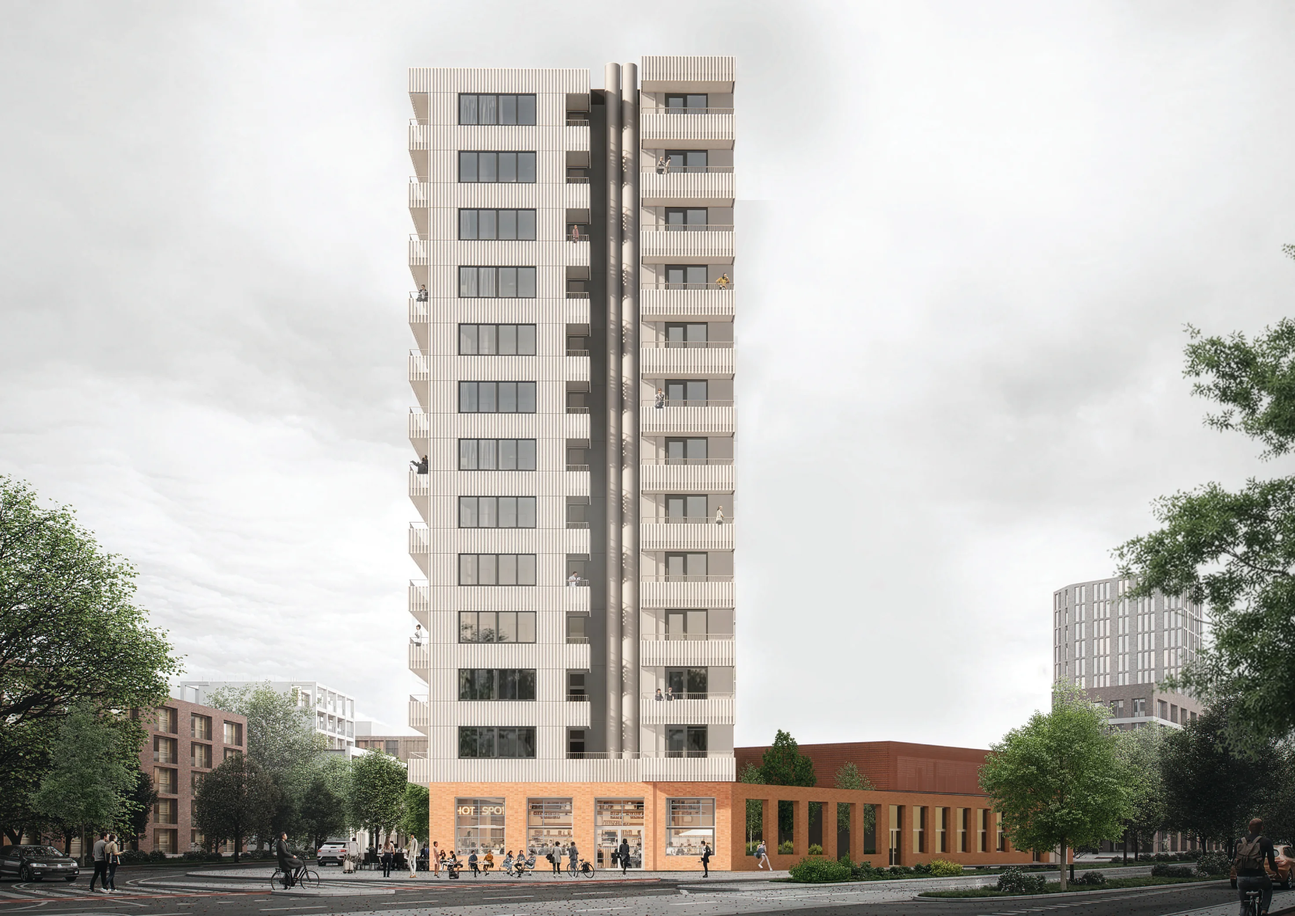
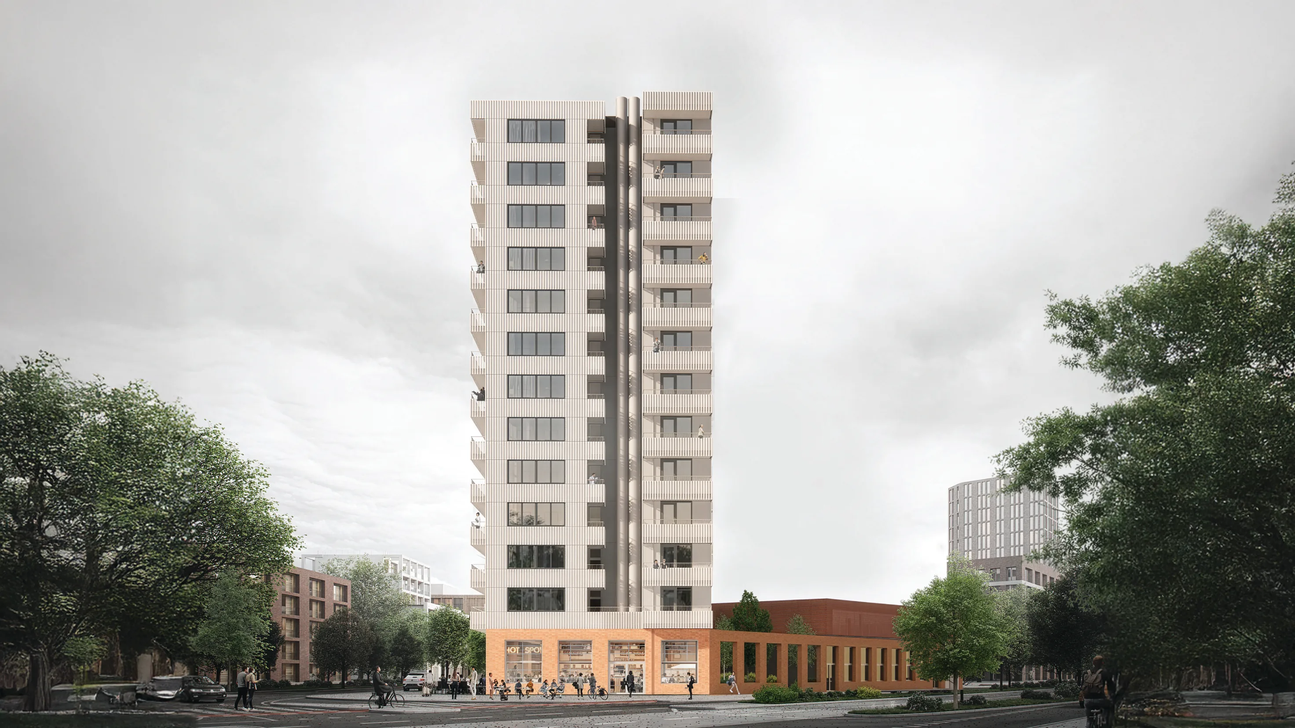
showreel: Kavel 17.3 render replaces panorama; widened corner view
- New sequence:true flag: a showreel entry's scenes become the tour's whole
  reel sequence without listing a pano (QR still shown, QR tour unchanged).
- Kavel 17.3 now plays the Enscape render (zoom in) -> corner view -> 02.
- Corner view re-exported at 16:9 (Photoshop Generative Expand), SWOP -> sRGB,
  2944x1656; zooms in on the ground floor (46% 92%). URL versioned ?v=2.

diff --git a/showreel-projects.js b/showreel-projects.js
@@ -73,13 +73,15 @@ window.SHOWREEL_PROJECTS = [
       { type:"image", file:"stills/delft-veld-6-7-01.webp" },
       { type:"video", file:"video/delft-veld-6-7.mp4" },
   ] },
-  // Kavel 17.3 - shares its id with the "kavel17-3" panorama tour, so these stills are APPENDED
-  // after the tour's panorama (pano -> 01 -> 02) and the project shows its QR code. To put the
-  // panorama elsewhere, list it as { type:"pano", scene:"kavel173-panorama-01" } in the order you
-  // want. Corner view: CMYK print file, colour-managed to sRGB.
-  { id:"kavel17-3", name:"Kavel 17.3", scenes:[
-      { type:"image", file:"stills/kavel17-3-01.webp", zoom:"out", focus:"44% 50%" },
-      { type:"image", file:"stills/kavel17-3-02.webp", zoom:"in",  focus:"55% 90%" },
+  // Kavel 17.3 - shares its id with the "kavel17-3" panorama tour, so it shows that tour's QR
+  // code. sequence:true = these scenes are the project's whole showreel sequence: the Enscape
+  // render stands in for the panorama (the QR tour itself still has the panorama).
+  // Corner view (01): Photoshop Generative Expand to 16:9 of the CMYK print file, colour-managed
+  // (U.S. Web Coated SWOP v2) to sRGB; zooms in on the ground floor.
+  { id:"kavel17-3", name:"Kavel 17.3", sequence:true, scenes:[
+      { type:"image", file:"stills/kavel17-3-render.webp", zoom:"in" },
+      { type:"image", file:"stills/kavel17-3-01.webp?v=2", zoom:"in", focus:"46% 92%" },
+      { type:"image", file:"stills/kavel17-3-02.webp", zoom:"in", focus:"55% 90%" },
   ] },
   { id:"silo", name:"SILO", scenes:[
       { type:"video", file:"video/silo.mp4" },

diff --git a/showreel.html b/showreel.html
@@ -224,9 +224,9 @@
     return chain.then(function(){
       // 2) Still/video projects from showreel-projects.js. These have no QR code - unless the
       //    entry shares its id with a panorama tour. Then it keeps the tour's name and QR, and:
-      //     - if it lists { type:"pano", scene:"<scene id>" } entries, it is the tour's COMPLETE
-      //       sequence for the showreel (tour scenes not listed are left out of the reel only;
-      //       the QR tour itself is unchanged);
+      //     - if it lists { type:"pano", scene:"<scene id>" } entries, or sets sequence:true, it
+      //       is the tour's COMPLETE sequence for the showreel (tour scenes not listed are left
+      //       out of the reel only; the QR tour itself is unchanged);
       //     - otherwise its scenes are APPENDED after the tour's own scenes.
       function mapScene(sc){
         return { kind:(sc.type==='video'?'video':'image'), file:sc.file,
@@ -237,7 +237,7 @@
         var existing=projects.filter(function(q){ return q.id===p.id; })[0];
         if(existing){
           if(p.name) existing.name=p.name;            // showreel name wins over the tour title
-          var isSequence=p.scenes.some(function(sc){ return sc.type==='pano'; });
+          var isSequence=!!p.sequence || p.scenes.some(function(sc){ return sc.type==='pano'; });
           if(isSequence){
             var own=existing.scenes;
             existing.scenes=p.scenes.map(function(sc){
